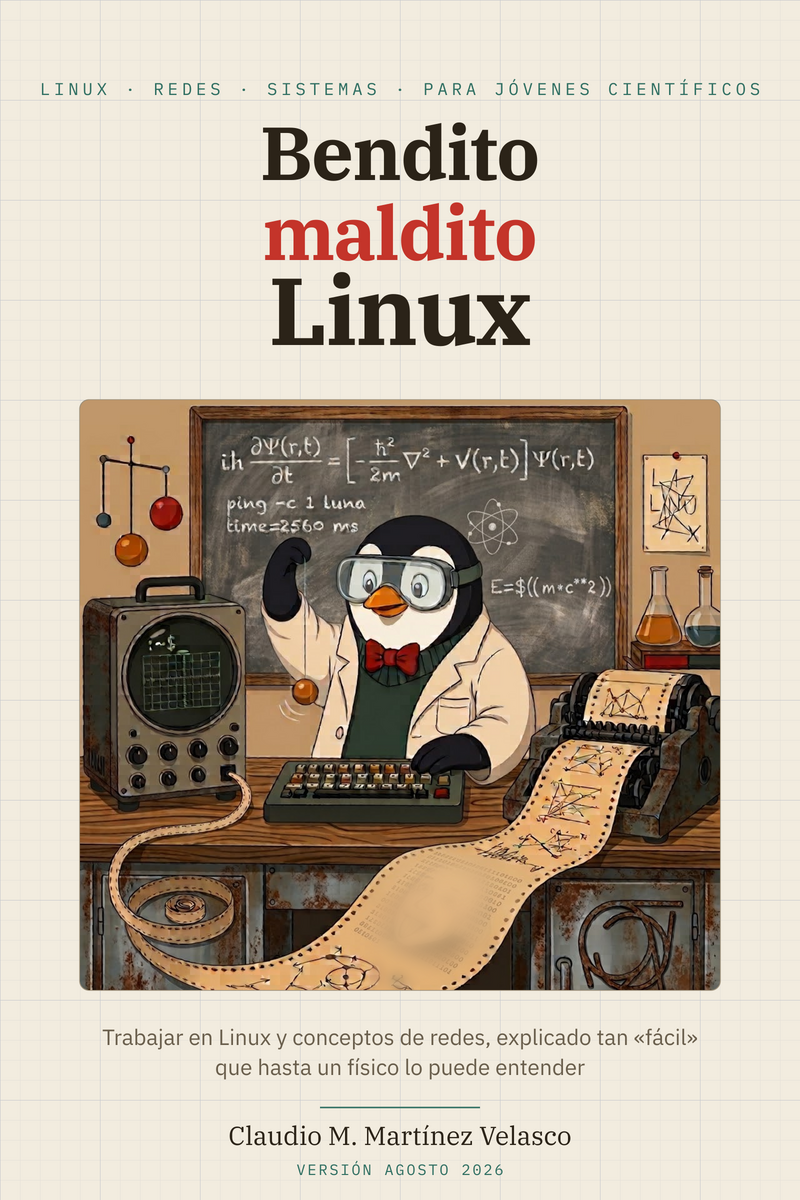
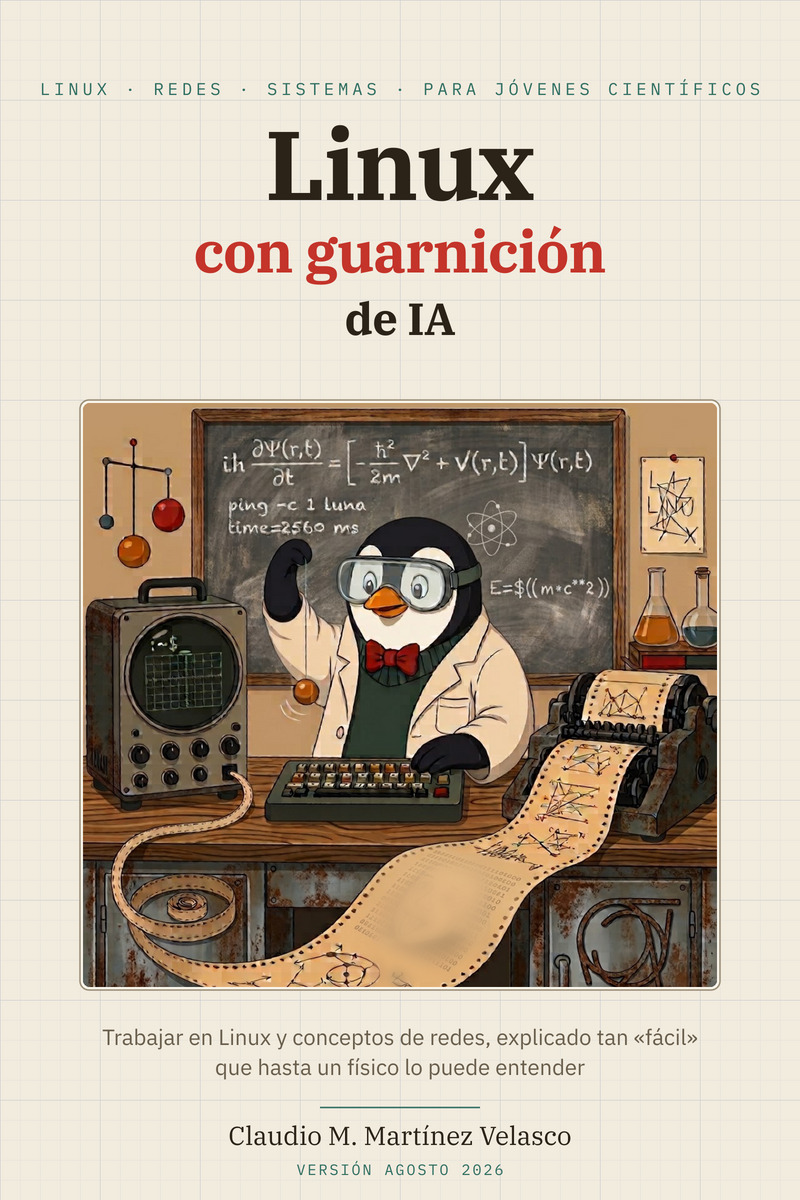
Cambio de título: «Linux con guarnición de IA»
«Bendito maldito Linux» generaba una asociación negativa por la
palabra «maldito». Nuevo título en _quarto.yml, README, página de
créditos del PDF y portada (retipografiada, misma ilustración).

Changed region(s): [[0.0938, 0.0925, 0.9062, 0.8325]]

diff --git a/_diseno.md b/_diseno.md
@@ -122,7 +122,7 @@ El libro evoluciona con la IA y con la realimentación de los lectores. Cada ver
 
 - Portada bonita para el libro (web y PDF; Quarto admite `cover-image`) — se hará más adelante.
 - **Pasada final del PDF** (decidido 2026-08-24: el PDF se aparca hasta terminar la redacción; la web es el canal durante el piloto): reactivar formato `pdf` y `downloads` en `_quarto.yml` y los pasos tinytex/librsvg del workflow; colorear los bloques de terminal en PDF con un tema claro (ampliar `tema/terminal.lua` con salida LaTeX coloreada); revisar la tabla estrecha de §1.1 en A4.
-- ~~Nombre del curso~~ → decidido (2026-08-23): **«Bendito maldito Linux»**, subtítulo «Trabajar en Linux y conceptos de redes, explicado tan fácil que hasta un físico lo puede entender», lema «Terminal, sistemas, redes y trabajo remoto · 12 sesiones prácticas».
+- ~~Nombre del curso~~ → decidido (2026-08-23), **cambiado** (2026-08-30): «Bendito maldito Linux» generaba una asociación negativa con la palabra «maldito»; nuevo título **«Linux con guarnición de IA»** — la IA como acompañamiento, Linux como plato principal, coherente con el criterio ya fijado de «conocer, no dominar» la IA. Subtítulo sin cambios: «Trabajar en Linux y conceptos de redes, explicado tan «fácil» que hasta un físico lo puede entender».
 - Distribución Debian vs Mint para la VM del bloque C (Debian es más «servidor real»; Mint es continuidad con su escritorio — propuesta: Mint no, Debian sí, y explicar por qué en el propio capítulo).
 - Nombre del curso.
 - Si el bloque D incluye o no un vistazo a DNS filtrado tipo Pi-hole como ejercicio avanzado opcional.

diff --git a/README.md b/README.md
@@ -1,4 +1,4 @@
-# Bendito maldito Linux
+# Linux con guarnición de IA
 
 Curso introductorio para estudiantes de ciencias e ingeniería: terminal, sistema, virtualización,
 redes y trabajo remoto. 13 sesiones + proyecto final. **Versión: agosto 2026** (las versiones llevan mes y año; el libro evoluciona con la IA y con la realimentación de los lectores).
